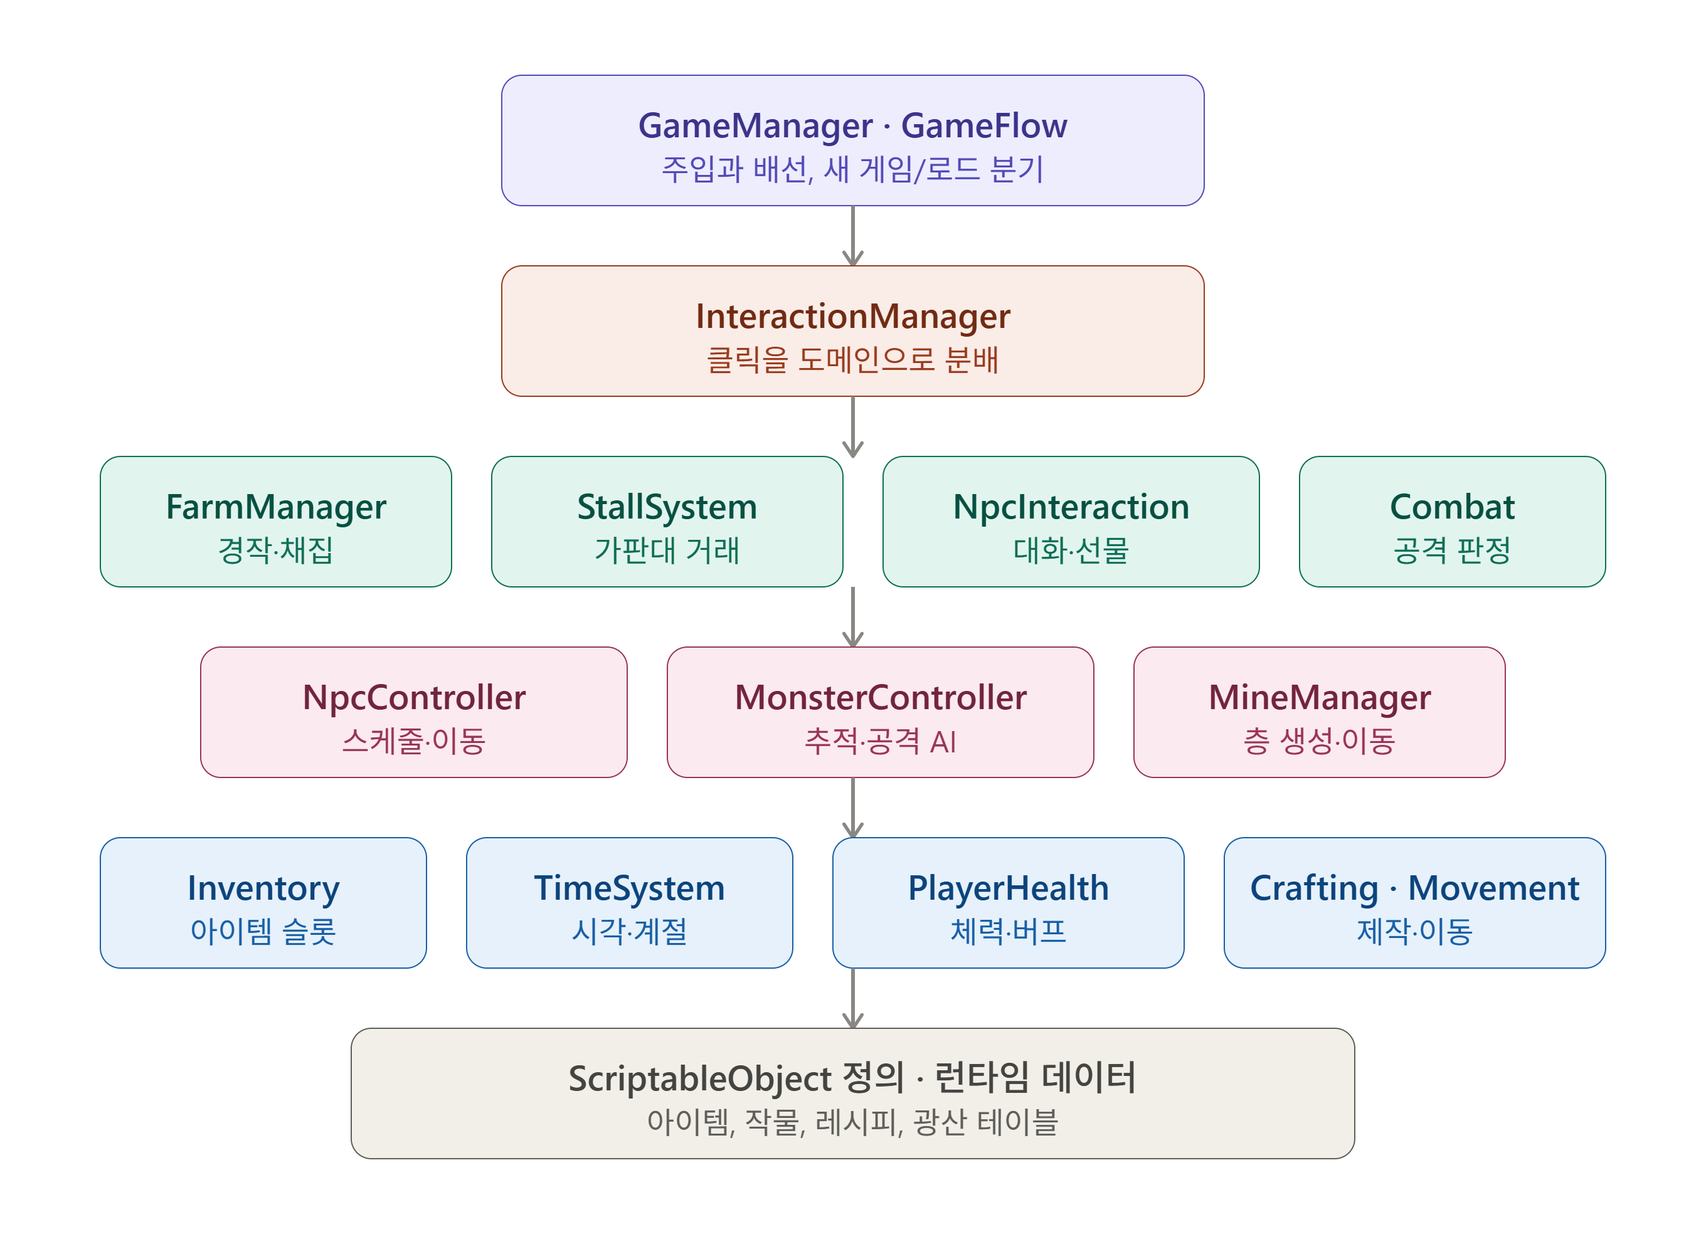
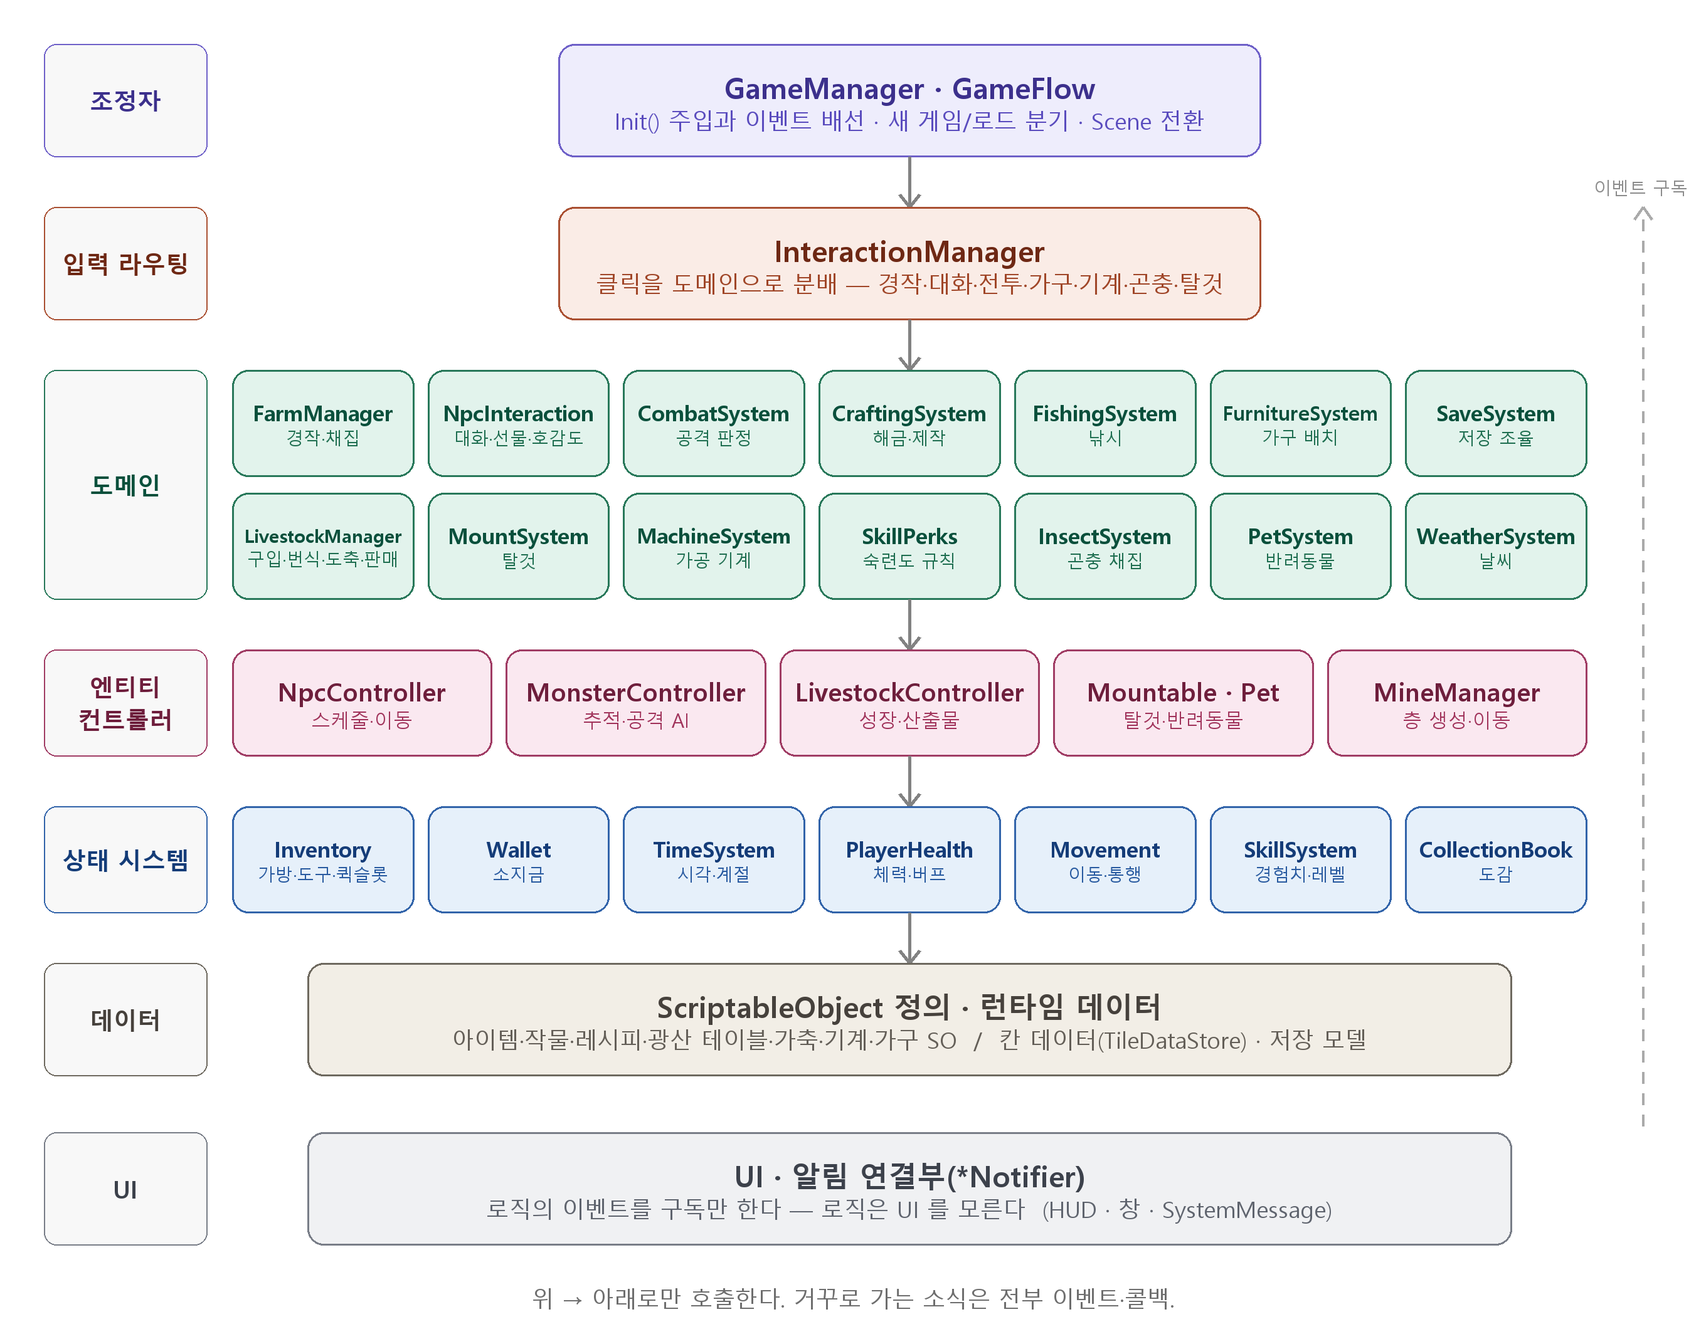
FarmLife 페이지: 전체 점검 — 계층·세이브 다이어그램 다시 그림, 자동 테스트 섹션
- 계층 구조 이미지를 7단계·현재 시스템으로 다시 그림, 세이브 흐름에 RebuildAfterLoad 추가
- 의존성 주입 코드를 실제 GameManager.Awake 와 맞춤(없는 ReferenceValidator 설명 제거)
- 인터페이스 표(IScreenFader·ICollectionBook·IFestivalMinigameMode), 해금 경로·수면·가축 판매 반영
- 자동 테스트 섹션(4층 34개, 찾은 버그 2건), 갤러리 9번을 옮긴 작업대 자리로 다시 찍음

diff --git a/app/projects/2dport-2026-farmlife/page.tsx b/app/projects/2dport-2026-farmlife/page.tsx
@@ -14,12 +14,12 @@ import Link from "next/link";
 //      ├── gallery-6.png  ← 외양간 내부 — 가축 5종
 //      ├── gallery-7.png  ← 대장간 내부 — 대장장이 NPC
 //      ├── gallery-8.png  ← 닭장 · 외양간 외관
-//      ├── gallery-9.png  ← 가공 기계 8종 · 작업대 · 반려동물
+//      ├── gallery-9.png  ← 플레이어 집 앞 — 가공 기계 8종 · 작업대 · 용광로 · 반려동물
 //      ├── gallery-10.png ← 비 오는 날 — 우산 · 달팽이 (빗방울은 임시 제작 이미지)
 //      ├── gallery-11.png ← 가축 상점 앞 — 말 타기
 //      ├── gallery-12.png ← 숙련도 창
-//      ├── diagram-layer.png    ← 계층 구조 다이어그램
-//      ├── diagram-save.png     ← 세이브/로드 분기 다이어그램
+//      ├── diagram-layer.png    ← 계층 구조 다이어그램 (7단계, 2026-09-25 다시 그림 — _reslice/portfolio_diagrams.py)
+//      ├── diagram-save.png     ← 세이브/로드 분기 다이어그램 (RebuildAfterLoad 추가, 2026-09-25)
 //      └── diagram-affinity.png ← 호감도 마일스톤 판정 다이어그램
 //  📁 public/images/thumb/farmlife-2026.png  ← 메인 카드 썸네일
 // ─────────────────────────────────────────────
@@ -38,7 +38,7 @@ const GALLERY = [
   { src: "/images/farmlife-2026/gallery-6.png", label: "외양간 — 소 · 염소 · 양 · 돼지 · 타조" },
   { src: "/images/farmlife-2026/gallery-7.png", label: "대장간 — 대장장이에게 제작 부탁" },
   { src: "/images/farmlife-2026/gallery-8.png", label: "닭장 · 외양간" },
-  { src: "/images/farmlife-2026/gallery-9.png", label: "가공 기계 8종 · 작업대 · 반려동물" },
+  { src: "/images/farmlife-2026/gallery-9.png", label: "플레이어 집 앞 — 가공 기계 8종 · 작업대 · 용광로 · 반려동물" },
   { src: "/images/farmlife-2026/gallery-10.png", label: "비 오는 날 — 우산 · 달팽이 (빗방울은 리소스가 없어 임시로 만든 이미지)" },
   { src: "/images/farmlife-2026/gallery-11.png", label: "가축 상점 앞 — 말 타기" },
   { src: "/images/farmlife-2026/gallery-12.png", label: "숙련도 — 레벨 보너스 · 레시피 해금" },
@@ -161,7 +161,7 @@ const LAYERS = [
     level: "UI",
     color: "#94a3b8",
     desc: "로직의 이벤트를 구독만 · 로직은 UI를 참조하지 않음",
-    items: ["PlayerHealthBar", "QuickSlotBar", "AffinityHeartsUI", "CraftingUI", "FurnitureCatalogUI", "MineElevatorUI", "SkillWindowUI", "SystemMessage", "*Notifier"],
+    items: ["PlayerHealthBar", "QuickSlotBar", "AffinityHeartsUI", "CraftingUI", "FurnitureCatalogUI", "MineElevatorUI", "SkillWindowUI", "LivestockSellUI", "SystemMessage", "*Notifier"],
   },
 ];
 
@@ -261,6 +261,9 @@ const INTERFACES = [
   { name: "ISaveable", contract: "ToSaveData(cell)", impl: "FarmTileData / GrassData / HarvestableData / FurnitureTileData / MachineTileData" },
   { name: "IWarpConsent", contract: "AllowTriggerWarp", impl: "NpcController" },
   { name: "IHitAnimation", contract: "HitFrames / HitFps", impl: "HarvestableDefinition" },
+  { name: "IScreenFader", contract: "FadeToBlack / FadeToClear", impl: "ScreenFader(UI) — 수면 · 부활 연출이 UI 타입을 모르게" },
+  { name: "ICollectionBook", contract: "도감 목록 · 기록 · 진행도", impl: "ItemCollectionBook(물고기 · 광물 · 나무 · 곤충) / BundleBook / AvatarCollectionBook" },
+  { name: "IFestivalMinigameMode", contract: "축제 미니게임 판정 방식", impl: "CollectMinigameMode / TimingMinigameMode / WheelMinigameMode" },
 ];
 
 function InterfaceTable() {
@@ -354,7 +357,7 @@ const SYSTEMS = [
     points: [
       "CraftingRecipe(SO)에 station 개념 없음 — 제작대가 자기 레시피 목록을 소유",
       "지급 방식을 CraftDeliveryBase로 추상화 (스타듀식 / 돈스타브식 / 즉시)",
-      "해금 경로 4가지: 기본 개방 / 아이템 사용 / 획득 / 이벤트 호출",
+      "해금 경로: 기본 개방 / 아이템 사용 / 획득 / 이벤트 호출 / 숙련도 레벨",
       "BuffSystem — 음식 버프(공격력·최대체력), 지속시간 후 자동 해제",
     ],
   },
@@ -391,6 +394,7 @@ const SYSTEMS = [
     points: [
       "TimeSystem이 시각 / 계절 / 일 / 요일 · 밝기를 소유하고 이벤트로 방송",
       "밤에만 자발적 수면 가능, 새벽 강제 기절은 시간 체크 우회",
+      "2시에 쓰러지면 집 침대 옆에서 깸 — 옮기기 전 이벤트로 탈것 · 광산 상태를 먼저 정리",
       "수면 시 NPC는 OnTimeChanged로 아침 스케줄 자동 재평가",
     ],
   },
@@ -421,6 +425,7 @@ const SYSTEMS = [
       "LivestockData(SO) 하나로 배고픔 · 성장 단계 · 방향별 프레임 · 산출 주기 · 암수 모습 정의",
       "가축 상점(목장주 NPC) — 산 가축은 가방이 아니라 바로 축사로, 사료통은 벽쪽 자리에 차례로",
       "암수가 있는 종은 밤마다 번식, 고기 그림이 있는 4종만 도축",
+      "사는 것은 늘 새끼부터, 다 자란 가축은 목장주에게 판매(새끼 값의 1.5배)",
       "닭장 · 외양간 내부는 먼 좌표에 텍스트 그리드로 굽고 워프로 연결",
     ],
   },
@@ -566,7 +571,7 @@ function Roadmap() {
       "낚시 — 미니게임 + 물고기 도감", "커뮤니티 센터 / 번들", "봄 축제 — 별도 Scene", "캐릭터 외형 · 외형 도감",
       "작물 계절 · 가축 7종 · 외양간", "대장장이 · 도구/무기 레시피 해금 사슬", "집 가구 배치 · 카탈로그 · 가구 조명",
       "사계절 축제 · 미니게임 4종 · 축제 한정 상품 · 날짜에 맞춰 열기", "가축 상점 · 암수 · 번식 · 도축 · 사료통", "탈것(말 · 타조) · 탁자 위 소품",
-      "가공 기계 8종 · 숙련도 5종", "곤충 채집 · 반려동물 · 비",
+      "가공 기계 8종 · 숙련도 5종", "곤충 채집 · 반려동물 · 비", "다 자란 가축 판매", "EditMode 자동 테스트 34개",
       "점검 후 정리 — 7곳에 흩어진 ‘바깥 범위’를 OutdoorArea 하나로, 2시에 쓰러지면 집 침대로(탈것 · 광산 정리 이벤트)",
     ] },
   ];
@@ -643,7 +648,7 @@ export default function FarmLifePage() {
 
         {/* Tags */}
         <div style={{ marginBottom: "18px" }}>
-          {["Unity 6", "C#", "ScriptableObject", "Architecture", "Editor"].map(t => (
+          {["Unity 6", "C#", "ScriptableObject", "Architecture", "Editor", "NUnit"].map(t => (
             <span key={t} style={TAG}>{t}</span>
           ))}
         </div>
@@ -667,7 +672,8 @@ export default function FarmLifePage() {
             {[
               "엔진: Unity 6 (2D URP · Renderer 2D / Light 2D) / 언어: C#",
               "네임스페이스: FarmGame.Core (에디터: FarmGame.EditorTools)",
-              "구성: 농사 · 채집 · 전투 · NPC · 호감도 · 광산 · 제작 · 낚시 · 가축 · 가구 · 축제 · 탈것 · 가공 · 숙련도 · 곤충 · 반려동물 · 날씨 등 도메인 시스템 + IPersistentSystem 20종 (런타임 스크립트 269개 + 에디터 48개)",
+              "구성: 농사 · 채집 · 전투 · NPC · 호감도 · 광산 · 제작 · 낚시 · 가축 · 가구 · 축제 · 탈것 · 가공 · 숙련도 · 곤충 · 반려동물 · 날씨 등 도메인 시스템 + IPersistentSystem 20종 (런타임 스크립트 271개 + 에디터 54개)",
+              "검증: EditMode 자동 테스트 34개 (규칙 · 저장 계약 · 데이터 무결성 · 씬 배선) + 플레이 확인",
               "설계 문서: PROJECT_STATUS.md / ARCHITECTURE.md",
             ].map(t => (
               <p key={t} style={{ fontSize: "14px", color: TEAL, opacity: 0.9, margin: 0 }}>• {t}</p>
@@ -712,7 +718,7 @@ export default function FarmLifePage() {
           <Figure
             src={DIAGRAM_LAYER}
             alt="계층 구조 다이어그램"
-            caption="클릭 하나가 조정자에서 데이터까지 내려가는 경로"
+            caption="7단계 계층 — 위에서 아래로만 호출하고, UI 는 로직의 이벤트를 구독만 한다"
           />
           <LayerDiagram />
         </section>
@@ -725,26 +731,29 @@ export default function FarmLifePage() {
             연결이 한 파일에 모여 있어 의존 관계를 코드로 읽을 수 있습니다.
           </p>
           <CodeBlock>{`Awake():
-  ReferenceValidator.Validate(...)           // 참조 누락을 시작 시점에 일괄 보고
-
   // ── 의존성 주입 ──────────────────────────
   walkability.Init(dataStore)                // 통행 판정 ← 데이터
   _pathfinder = new Pathfinder(walkability)  // 길찾기 ← 통행 판정 (순수 C# 객체)
   movement.Init(_pathfinder, characterAnimator)
   farm.Init(dataStore, effects, hitEffects, walkability)
   furniture.Init(dataStore, inventory, player, movement, characterAnimator)
+  machines.Init(dataStore, inventory, movement)   // 가공 기계도 같은 칸 데이터 저장소
   interaction.Init(dataStore, walkability, movement, farm,
-                   equipment, characterAnimator, inventory, furniture)
+                   equipment, characterAnimator, inventory, furniture, machines)
 
   // ── 이벤트 배선 (역결합) ──────────────────
   inventory.Bind(farm)                       // 채집됨 → 인벤토리 적재
   drops.Bind(farm)                           // 채집됨 → 드랍 연출 (별개 구독)
+  collectionBooks.Init(inventory)            // 획득 → 도감 자동 기록
   time.OnDayPassed += farm.GrowAllCrops      // 하루 경과 → 작물 성장
   time.OnDateChanged += farm.HandleDateChanged // 계절 변경 → 제철 아닌 작물 시듦
-  furniture.OnSleepRequested += sleep.Sleep  // 놓은 침대에 누움 → 수면`}</CodeBlock>
+  furniture.OnSleepRequested += sleep.Sleep  // 놓은 침대에 누움 → 수면
+  sleep.OnPassedOut  += HandleLeaveForHome   // 2시에 쓰러짐 ┐ 집으로 옮기기 전
+  revive.OnReviving  += HandleLeaveForHome   // 체력 0 부활  ┘ 탈것 내리기 · 광산 정리
+  weather.OnWeatherChanged += farm.HandleWeather // 비 → 바깥 밭 적시기`}</CodeBlock>
           <ul style={{ listStyle: "none", padding: 0, margin: 0 }}>
             <NumItem n={1}>순수 로직 객체는 MonoBehaviour 없이 <code>new</code>로 생성해 주입</NumItem>
-            <NumItem n={2}>참조 누락은 <code>ReferenceValidator</code>가 시작 시점에 일괄 보고 — 런타임 NullReference 추적 제거</NumItem>
+            <NumItem n={2}>씬 배선(인스펙터 칸)은 <code>DesignRuleWiring</code> 도구가 채우고, 빈 칸·세이브 목록 누락은 <code>SceneWiringTests</code>가 잡는다 — 에러 없이 기능이 침묵하는 경우를 테스트로</NumItem>
             <NumItem n={3}>한 이벤트를 여러 구독자가 나눠 받도록 설계 (적재와 연출을 분리)</NumItem>
           </ul>
         </section>
@@ -920,7 +929,7 @@ CraftDeliveryBase           추상 MonoBehaviour — 지급 방식의 계약
               </ul>
             </NumItem>
             <NumItem n={2}>
-              해금 경로 5가지 — 기본 개방 / 아이템 사용 / 아이템 획득(<code>unlockOnPickup</code>) / 획득 시 여러 개(<code>unlocksOnAcquire</code>) / 이벤트 호출
+              해금 경로 6가지 — 기본 개방 / 아이템 사용 / 아이템 획득(<code>unlockOnPickup</code>) / 획득 시 여러 개(<code>unlocksOnAcquire</code>) / 이벤트 호출 / 숙련도 레벨(<code>SkillDefinition</code> 보상)
             </NumItem>
             <NumItem n={3}>
               <code>CraftingStationWorker</code>가 가동 연출(프레임 애니)과 완성품 보관·수령을 담당
@@ -1037,7 +1046,7 @@ SaveSystem                 ObjectKind.Machine (앵커만) → 불러온 뒤 Rebu
           </p>
           <ul style={{ listStyle: "none", padding: 0, margin: "0 0 16px" }}>
             <NumItem n={1}>
-              <code>InteractionManager</code>가 클릭 감지 → NPC · 가판대 · 가구 라우팅 시도(전부 miss) → 셀 라우팅
+              <code>InteractionManager</code>가 클릭 감지 → NPC · 가판대 · 가구 · 기계 · 곤충 라우팅 시도(전부 miss) → 셀 라우팅
             </NumItem>
             <NumItem n={2}>
               <code>dataStore.TryGet(cell)</code> → <code>HarvestableData</code> 발견 → <code>CanInteract(Axe) = true</code>
@@ -1083,7 +1092,8 @@ SaveSystem                 ObjectKind.Machine (앵커만) → 불러온 뒤 Rebu
           <h2 style={SECTION_TITLE}>세이브 / 로드 아키텍처</h2>
           <p style={{ fontSize: "14px", opacity: 0.6, lineHeight: 1.7, marginBottom: "20px" }}>
             시스템마다 저장 코드를 흩뿌리는 대신, <code>IPersistentSystem</code> 계약 하나로 통일했습니다.
-            현재 구현체는 20종(씬 인스턴스 23개)입니다.
+            현재 구현체는 20종(씬 인스턴스 23개)입니다. 가구 · 가공 기계처럼 여러 칸을 차지하는 것은 앵커 칸만 저장하고,
+            불러온 뒤 <code>RebuildAfterLoad</code>로 나머지 칸과 조명 · 아이콘을 다시 만듭니다.
           </p>
           <Figure
             src={DIAGRAM_SAVE}
@@ -1173,6 +1183,7 @@ SaveSystem                 ObjectKind.Machine (앵커만) → 불러온 뒤 Rebu
                   { n: "WalkabilityService", r: "인접 · 최단 접근 가능 칸 찾기", u: "NpcController, MonsterController, InteractionManager" },
                   { n: "SpaceScanner", r: "flood fill로 열린 공간 수집", u: "NpcController, MonsterController" },
                   { n: "NpcRegistry", r: "씬의 NPC 목록 (등록 / 해제)", u: "NpcSaveManager, PlaceMilestoneManager" },
+                  { n: "OutdoorArea", r: "바깥 맵 범위 — 7곳에 흩어져 있던 같은 값을 하나로", u: "MachineSystem, InsectSystem, SeasonVisualManager, CameraFollow, Rain · Snow · Umbrella" },
                 ].map(row => (
                   <tr key={row.n}>
                     <td style={{
@@ -1271,6 +1282,7 @@ SaveSystem                 ObjectKind.Machine (앵커만) → 불러온 뒤 Rebu
               "런타임 Find 탐색 없음",
               "세이브 대상 23칸 누락 · 중복 키 0",
               "저장 → 불러오기 실행 확인",
+              "EditMode 테스트 34개 통과",
             ].map(t => (
               <span key={t} style={{
                 display: "inline-flex", alignItems: "center", gap: "7px",
@@ -1282,6 +1294,69 @@ SaveSystem                 ObjectKind.Machine (앵커만) → 불러온 뒤 Rebu
               </span>
             ))}
           </div>
+        </section>
+
+        {/* ── 자동 테스트 ── */}
+        <section style={{ marginBottom: "40px" }}>
+          <h2 style={SECTION_TITLE}>자동 테스트 — 조용히 빠지는 것을 잡는다</h2>
+          <p style={{ fontSize: "14px", opacity: 0.6, lineHeight: 1.7, marginBottom: "20px" }}>
+            이 구조에서 가장 흔한 실패는 예외가 아니라 <strong style={{ color: "#e0e0e0" }}>아무 일도 일어나지 않는 것</strong>입니다.
+            인스펙터 칸 하나, SO 필드 하나가 비면 에러 없이 기능이 사라집니다. 그 지점을 EditMode 테스트 34개로 고정했습니다.
+          </p>
+          <div style={{ overflowX: "auto", marginBottom: "16px" }}>
+            <table style={{ width: "100%", borderCollapse: "collapse", fontSize: "12.5px", minWidth: "520px" }}>
+              <thead>
+                <tr>
+                  {["층", "무엇을", "예"].map(h => (
+                    <th key={h} style={{
+                      textAlign: "left", padding: "10px 12px",
+                      borderBottom: `1px solid ${TEAL}40`,
+                      color: TEAL, fontWeight: 700, fontSize: "12px", whiteSpace: "nowrap",
+                    }}>{h}</th>
+                  ))}
+                </tr>
+              </thead>
+              <tbody>
+                {[
+                  { n: "규칙 (14)", r: "씬 없이 계산만", u: "숙련도 곡선 · 기계 공정(대기 → 작업 → 완성) · 바깥 범위 경계 · 가축 암수 산출" },
+                  { n: "저장 계약 (4)", r: "Capture → Restore 왕복", u: "지갑 · 숙련도, 옛 세이브(항목 수가 적은 것) 허용, 고정 SaveKey 중복 없음" },
+                  { n: "데이터 무결성 (9)", r: "SO 애셋 전수 검사", u: "도구 동작 hitFrame · 모든 아이템이 레지스트리에 있는가 · 이름/id 중복 · 판매가 = 새끼 값 × 1.5" },
+                  { n: "씬 배선 (7)", r: "메인 Scene 의 인스펙터 칸", u: "세이브 목록 누락 · 키 중복 · 순서, GameManager 주입 칸, 새 시스템 칸, 빠진 스크립트" },
+                ].map(row => (
+                  <tr key={row.n}>
+                    <td style={{
+                      padding: "10px 12px", borderBottom: "1px solid rgba(255,255,255,0.06)",
+                      color: GREEN, fontWeight: 700, whiteSpace: "nowrap", verticalAlign: "top",
+                    }}>{row.n}</td>
+                    <td style={{
+                      padding: "10px 12px", borderBottom: "1px solid rgba(255,255,255,0.06)",
+                      opacity: 0.8, verticalAlign: "top",
+                    }}>{row.r}</td>
+                    <td style={{
+                      padding: "10px 12px", borderBottom: "1px solid rgba(255,255,255,0.06)",
+                      opacity: 0.55, lineHeight: 1.6, verticalAlign: "top",
+                    }}>{row.u}</td>
+                  </tr>
+                ))}
+              </tbody>
+            </table>
+          </div>
+          <h3 style={SUB_TITLE}>처음 돌렸을 때 찾은 것</h3>
+          <ul style={{ listStyle: "none", padding: 0, margin: "0 0 12px" }}>
+            <NumItem n={1}>
+              낫 동작의 <code>hitFrame</code>이 비어 있어 타격 이벤트가 오지 않았음 — <strong style={{ color: "#f0f0f0" }}>낫으로 풀을 벨 수 없던 버그</strong>
+              <ul style={{ listStyle: "none", padding: 0, margin: "6px 0 0" }}>
+                <SubItem>모션은 정상으로 나오니 눈으로는 알아차리기 어려운 종류</SubItem>
+              </ul>
+            </NumItem>
+            <NumItem n={2}>
+              1단계 재료(구리 광석 · 구리 주괴)가 저장용 레지스트리에 없어 <strong style={{ color: "#f0f0f0" }}>가방에 든 채 저장하면 불러올 때 사라지던 버그</strong>
+            </NumItem>
+          </ul>
+          <p style={{ fontSize: "13.5px", opacity: 0.7, lineHeight: 1.8, margin: 0 }}>
+            스크립트가 한 어셈블리에 모여 있어 asmdef 로 쪼개는 대신 에디터 어셈블리에 테스트를 두었습니다.
+            새 시스템 · SO 필드 · 인스펙터 칸을 더하면 해당 층 테스트에 한 줄을 더하는 것을 규칙으로 했습니다.
+          </p>
         </section>
 
         {/* ── 로드맵 ── */}
